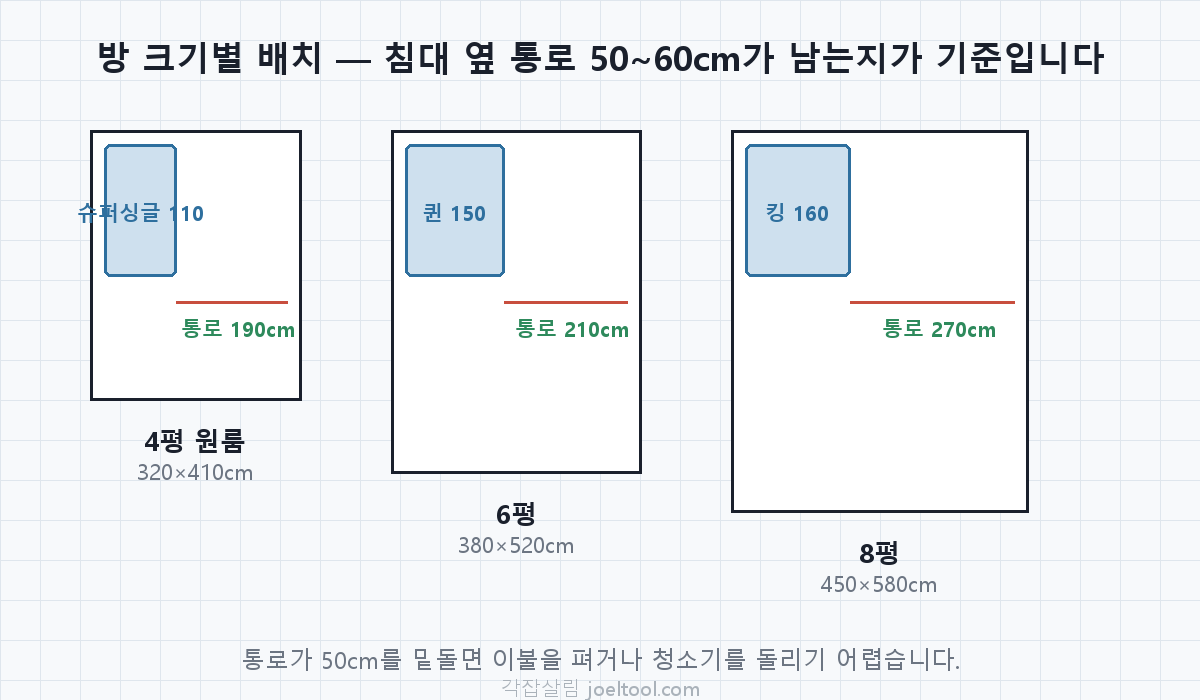
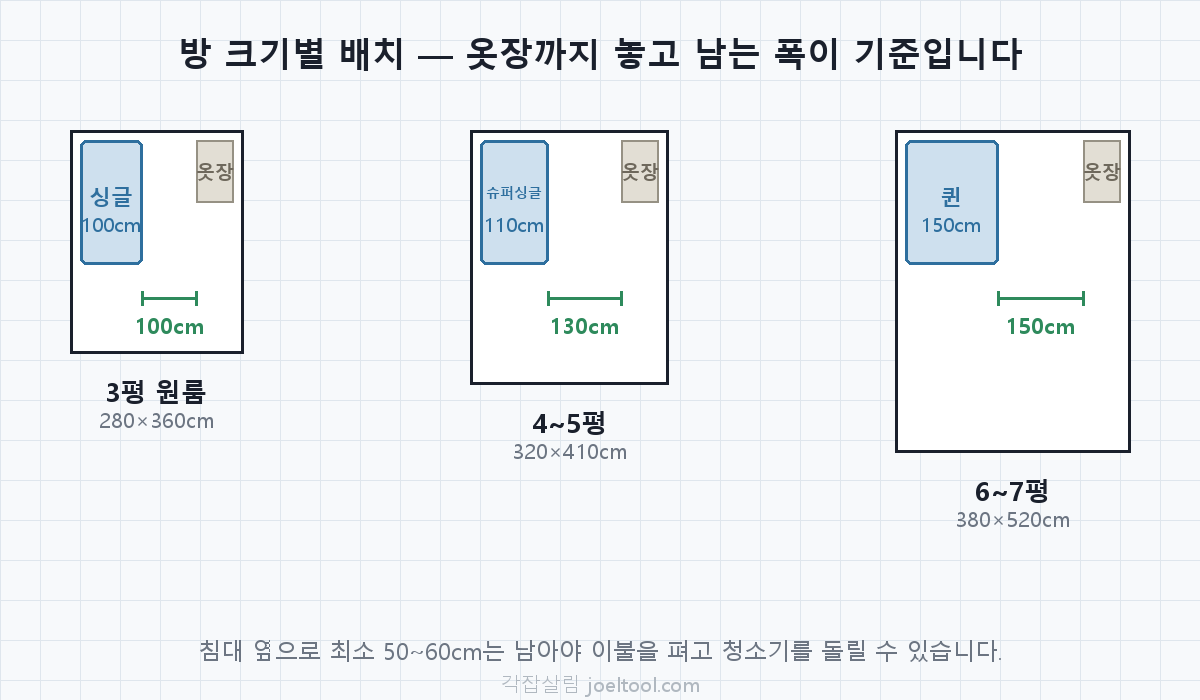
침대 가이드 — 규격 다이어그램 3장 추가 (이미지 0개였음)
경쟁사 분석(2026-08-08): 「침대 사이즈」 상위 페이지들의 이미지 수가
jab-guyver 13개 / 제니룸 4개 / 픽잇스마트 26개인데 **우리만 0개**였다.
시각적 쿼리라 이미지 검색·이미지 팩 유입 경로가 통째로 없는 상태였다.

남의 이미지를 쓰지 않고 **페이지의 표 데이터로 직접 그렸다**(PIL).
저작권 0이고, 값이 본문 표와 항상 일치한다.

  1) bed-sizes-compare  6종을 같은 축척으로 — 폭에서 갈리는 게 보이게
  2) bed-room-fit       3/4~5/6~7평에 옷장까지 놓고 남는 폭
  3) bed-frame-vs-mattress  매트리스 150 vs 프레임 외경 160

만들면서 고친 것:
  · 축척을 먼저 정했더니 싱글·라지킹이 화면 밖으로 잘렸다
    -> 쓸 수 있는 폭에서 축척을 역산하도록 변경
  · 프레임 10cm 차이가 23px 이라 안 보였다 -> 치수선과 숫자가 말하게
  · 방 배치에서 옷장을 빼먹어 통로가 190cm 로 비현실적이었다 -> 옷장 포함
  · "슈퍼싱글" 라벨이 침대 상자를 넘쳤다 -> 상자에 맞을 때까지 글자 축소

width/height 명시(CLS 방지), loading="lazy", alt 은 그림이 말하는 사실을 기술.
본문 3,779 -> 3,913자.

Claude-Session: https://claude.ai/code/session_016n14nsb3ztnCAcnpaPxL3x

diff --git a/room-planner/guide/bed-size-guide.html b/room-planner/guide/bed-size-guide.html
@@ -62,6 +62,11 @@
         <tr><td>라지킹 (LK)</td><td>1700×2000</td><td>170×200</td><td>약 5.6자</td><td>10평 이상 안방</td></tr>
       </tbody>
     </table>
+    <figure style="margin:20px 0">
+      <img src="img/bed-sizes-compare.png" width="1200" height="560" loading="lazy" decoding="async"
+           alt="침대 규격 6종을 같은 축척으로 비교한 그림. 싱글 100cm, 슈퍼싱글 110cm, 더블 135cm, 퀸 150cm, 킹 160cm, 라지킹 170cm로 길이는 모두 200cm이고 폭에서 등급이 갈린다." style="width:100%;height:auto;border:1px solid var(--line);border-radius:8px">
+      <figcaption style="font-size:13px;color:var(--muted);margin-top:8px;text-align:center">침대 6종을 같은 축척으로 그린 비교도 — 길이는 200cm로 같고 폭에서 갈립니다</figcaption>
+    </figure>
     <p class="hint">※ 1자 ≈ 30.3cm. 오래된 가구점이나 이불 가게에서는 아직 자 단위를 쓰는 곳이 있어 함께 적었습니다. <strong>제조사·모델에 따라 ±수 cm 차이가 납니다.</strong> 아래 "프레임" 항목을 반드시 확인하세요.</p>
 
     <h2>⚠ 국내 "킹"과 미국 "King"은 다릅니다</h2>
@@ -86,6 +91,11 @@
         <tr><td>8평 이상 (26㎡~)</td><td>퀸·킹</td><td>라지킹</td><td>—</td></tr>
       </tbody>
     </table>
+    <figure style="margin:20px 0">
+      <img src="img/bed-room-fit.png" width="1200" height="700" loading="lazy" decoding="async"
+           alt="방 크기별 침대 배치 평면도. 3평 원룸에 싱글, 4~5평에 슈퍼싱글, 6~7평에 퀸을 놓고 옷장까지 배치했을 때 남는 통로 폭을 표시했다." style="width:100%;height:auto;border:1px solid var(--line);border-radius:8px">
+      <figcaption style="font-size:13px;color:var(--muted);margin-top:8px;text-align:center">옷장(깊이 60cm)까지 놓고 남는 폭 — 침대 옆 50~60cm가 기준입니다</figcaption>
+    </figure>
 
     <h3>원룸·자취방이라면 슈퍼싱글이 무난합니다</h3>
     <p>1인 가구에서 가장 많이 선택되는 사이즈입니다. 싱글보다 10cm 여유가 있어 뒤척이기 편하면서도, 퀸만큼 방을 잡아먹지 않아 <strong>책상과 수납장을 놓을 자리가 남습니다.</strong></p>
@@ -105,6 +115,11 @@
         <tr><td>서랍형(수납형)</td><td>겉치수는 일반과 비슷</td><td><strong>서랍이 빠져나올 60cm 이상</strong>이 옆·앞에 필요</td></tr>
       </tbody>
     </table>
+    <figure style="margin:20px 0">
+      <img src="img/bed-frame-vs-mattress.png" width="1200" height="620" loading="lazy" decoding="async"
+           alt="매트리스와 프레임 외경의 차이를 보여주는 그림. 퀸 매트리스 150cm에 일반 프레임을 쓰면 외경이 160cm로 커지고, 프레임 종류별로 더해지는 치수를 정리했다." style="width:100%;height:auto;border:1px solid var(--line);border-radius:8px">
+      <figcaption style="font-size:13px;color:var(--muted);margin-top:8px;text-align:center">매트리스 150cm라도 일반 프레임이면 방에서 차지하는 폭은 160cm입니다</figcaption>
+    </figure>
     <p>특히 <strong>서랍형</strong>은 겉으로는 공간을 안 잡아먹는 것처럼 보이지만, 서랍 앞에 60cm를 못 비우면 수납 기능 자체를 못 씁니다. 벽에 붙여 놓을 계획이라면 서랍이 어느 방향으로 열리는지 먼저 확인하세요.</p>
     <p>상세페이지의 "퀸 사이즈"라는 <strong>이름만 믿지 말고 제품별 실제 외경 치수</strong>를 확인하는 게 안전합니다. 같은 퀸이어도 제품마다 10cm 이상 차이가 납니다.</p>
 
